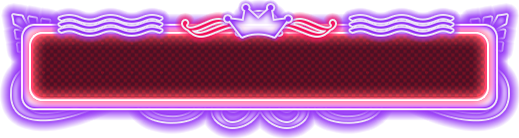
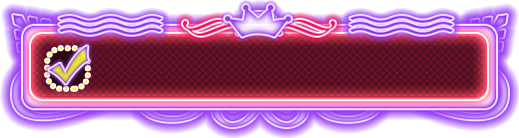
paytalbe win bg effect

Changed region(s): [[0.0617, 0.2899, 0.185, 0.6667]]

diff --git a/newMoblie/src/bingoGames/v2games/turbo90/Turbo90.ts b/newMoblie/src/bingoGames/v2games/turbo90/Turbo90.ts
@@ -117,6 +117,7 @@ class Turbo90 extends V2Game{
     private timeoutId: number;
 
     protected afterCheck( resultList: Array<Object> ): void{
+        this.clearPaytableFgs();
         super.afterCheck( resultList );
         this.clearArrow();
         for( let i: number = 0; i < 4; i++ ){
@@ -143,6 +144,7 @@ class Turbo90 extends V2Game{
     protected startPlay(): void {
         super.startPlay();
         this.clearArrow();
+        this.clearPaytableFgs();
     }
 
 /******************************************************************************************************************************************************************/    
@@ -234,6 +236,7 @@ class Turbo90 extends V2Game{
             y = Math.floor( y / 130 ) * 130 + 40;
 			pts[payTable].UI.y = y;
             pts[payTable].UI.x = 957;
+            pts[payTable].UI.addEventListener( "paytableFitEvent", this.payTableFit, this );
             let tx: egret.TextField = pts[payTable].UI["tx"];
             tx.width = 166;
             tx.textAlign = "center";
@@ -252,5 +255,19 @@ class Turbo90 extends V2Game{
         }
         let winBgMask: egret.Bitmap = Com.addBitmapAt( this, this.assetStr("paytable_bg"), 938, 364 );
         winBg.mask = winBgMask;
+    }
+
+    private payTableFit( event: egret.Event ){
+        let str: string = event.target["tx"].text;
+        if( str == "x1000" ) this.paytableFgs[0].visible = true;
+        else if( str == "x100" ) this.paytableFgs[1].visible = true;
+        else if( str == "x4" ) this.paytableFgs[2].visible = true;
+        else if( str == "x1" ) this.paytableFgs[3].visible = true;
+    }
+
+    private clearPaytableFgs(){
+        for( let i: number = 0; i < 4; i++ ){
+            this.paytableFgs[i].visible = false;
+        }
     }
 }

diff --git a/newMoblie/src/bingoGames/paytables/PaytableUI.ts b/newMoblie/src/bingoGames/paytables/PaytableUI.ts
@@ -105,6 +105,7 @@ class PaytableUI extends egret.Sprite{
 		else{
 			this.focus();
 		}
+		this.dispatchEvent( new egret.Event( "paytableFitEvent" ) );
 	}
 
 	public clearStatus(): void{
